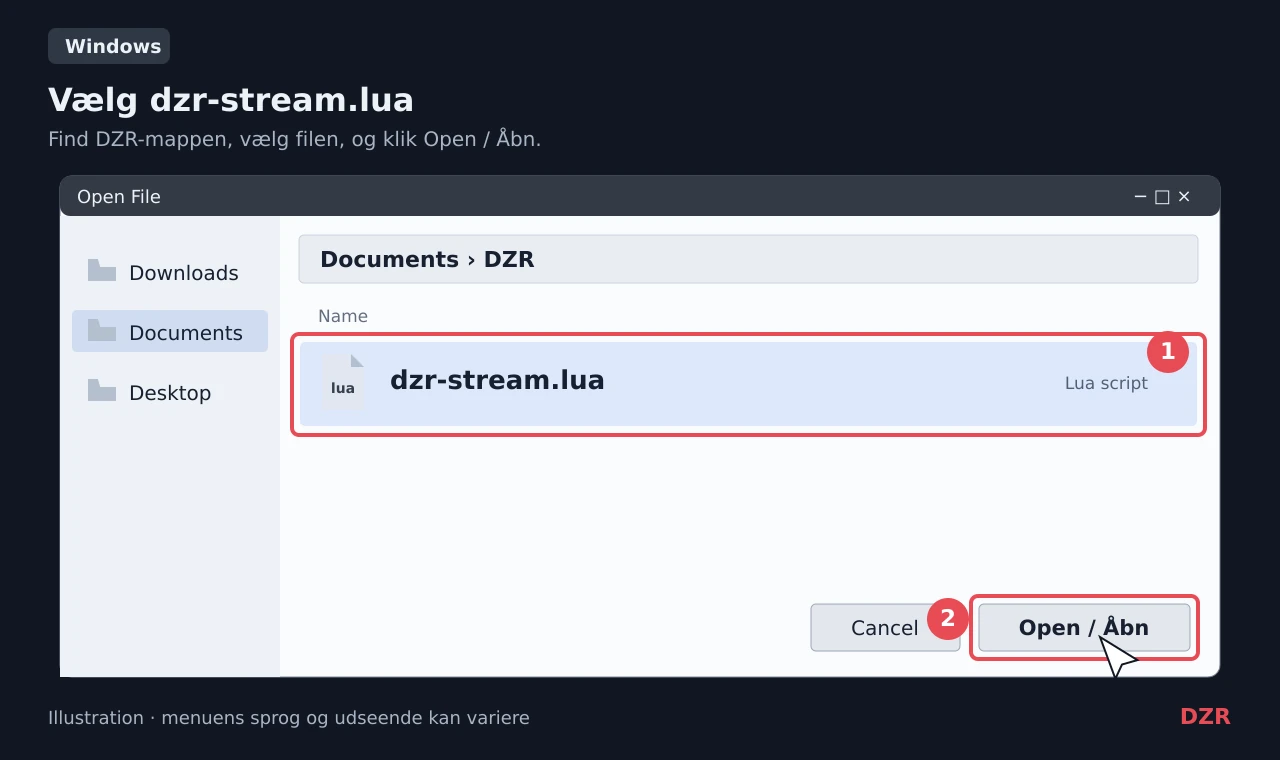
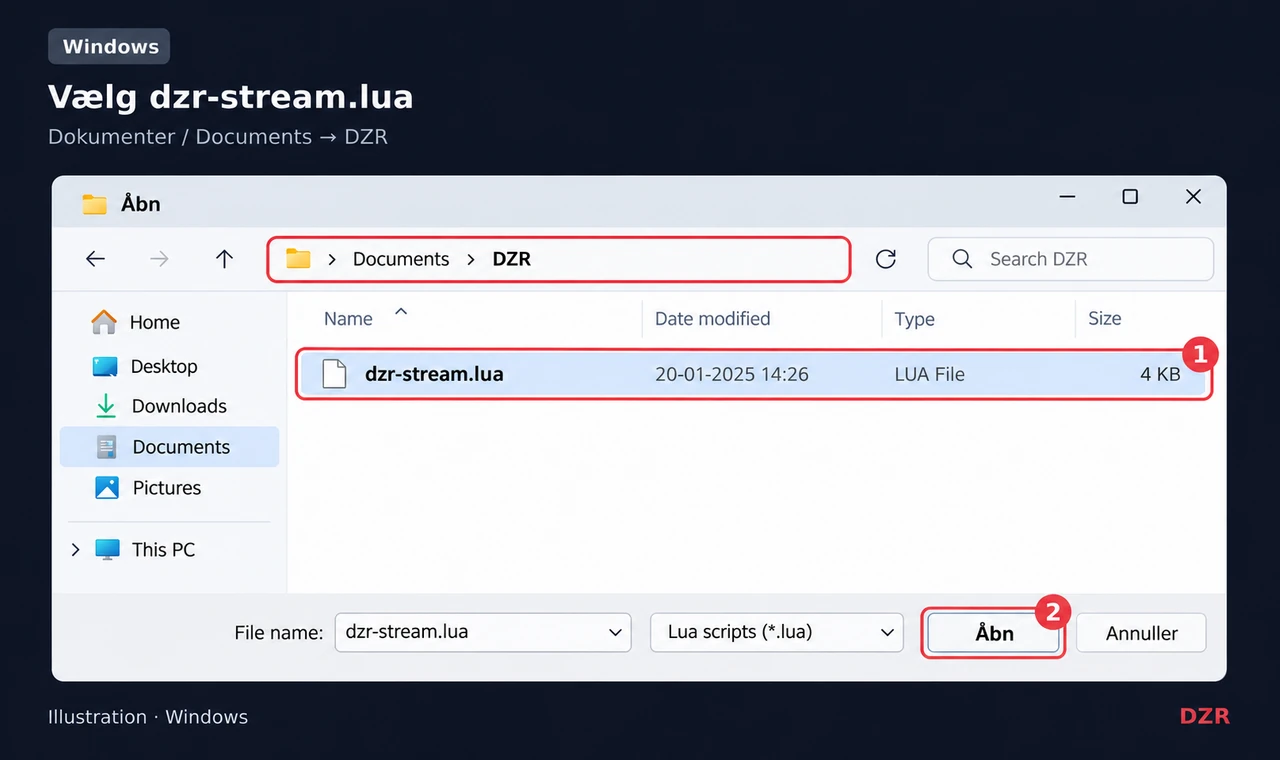
fix(streaming): simplify onboarding and refresh Windows file selection

diff --git a/apps/bot/handlers/streamingHandlers.js b/apps/bot/handlers/streamingHandlers.js
@@ -36,15 +36,14 @@ function createStreamingHandlers({ service, guildId, adminRoleId, publicUrl, cha
 
   async function showGuide(interaction, registration, token) {
     const url = guideUrl();
-    const channels = Object.entries(registration.channels).map(([platform, channel]) => `${platform === "youtube" ? "YouTube" : "Twitch"}: ${channel.url}`).join("\n");
+    const channels = Object.entries(registration.channels).map(([platform, channel]) => `Din ${platform === "youtube" ? "YouTube" : "Twitch"} kanal: ${channel.url}`).join("\n");
     await interaction.editReply({ content: (token
-      ? "✅ **Dine kanaler er tilmeldt**\n"
-      : "✅ **Du er allerede tilmeldt**\n") + channels + "\n\n"
+      ? "✅ **Dine kanaler er tilmeldt**\n\n"
+      : "✅ **Du er allerede tilmeldt**\n\n")
       + (token ? `**Din personlige OBS-nøgle:**\n\`${token}\`\nNøglen vises kun i denne private besked. Del den ikke.\n\n`
         : "Din nøgle og dine kanaler er uændrede. Behold nøglen i OBS, hvis den allerede er indsat.\n\n")
       + `Åbn [guiden](<${url}>) på den computer, hvor du bruger OBS. Forbindelsestesten er valgfri.\n\n`
-      + "**Mistet nøglen?** Se din tidligere private Discord-besked. Du kan få en ny med /streaming_add, "
-      + "men når du gemmer dér, bliver den gamle nøgle ugyldig, og du skal opdatere OBS.",
+      + channels,
     components: [row(new ButtonBuilder().setLabel("Åbn installationsguiden").setEmoji("🔴").setStyle(ButtonStyle.Link).setURL(url),
       button("status", interaction.user.id, "Kontrollér OBS-forbindelse", ButtonStyle.Secondary))],
     allowedMentions: { parse: [] } });

diff --git a/apps/bot/services/streaming/handlers.test.js b/apps/bot/services/streaming/handlers.test.js
@@ -65,6 +65,7 @@ test("new enrollment returns a key privately and a generic configured guide link
   const result = reply(i);
   assert.match(result.content, /one-time-personal-key/);
   assert.match(result.content, /valgfri/);
+  assert.ok(result.content.endsWith(`Din YouTube kanal: ${registration.channels.youtube.url}`));
   assert.equal(result.components[0].components[0].url, setupUrl);
   assert.equal(result.components[0].components[0].custom_id, undefined);
   assert.equal(result.components[0].components[1].custom_id, `streaming:status:${userId}`);
@@ -84,7 +85,7 @@ test("existing registration and stale new components only show the guide without
     assert.equal(i.calls[0][1].flags, MessageFlags.Ephemeral);
     assert.match(result.content, /allerede tilmeldt/);
     assert.match(result.content, /nøgle og dine kanaler er uændrede/);
-    assert.match(result.content, /gamle nøgle ugyldig/);
+    assert.ok(result.content.endsWith(`Din YouTube kanal: ${registration.channels.youtube.url}`));
     assert.ok(!JSON.stringify(result).includes(registration.tokenHash));
     const url = new URL(result.components[0].components[0].url);
     assert.equal(url.pathname, "/streaming/setup");

diff --git a/public/streaming/setup/README.md b/public/streaming/setup/README.md
@@ -22,9 +22,9 @@ Each operating-system directory contains:
 | `select-file.webp` | Selecting `dzr-stream.lua` and clicking Open |
 | `configure.webp` | The real DZR property names; example key shown only as masking dots |
 
-All served assets are 1280 × 760 pixels with a landscape aspect ratio and DZR's dark background/red action accent. The Windows `save-file` illustration and both `configure` illustrations were regenerated with image generation on 2026-11-14. Their lossless PNG originals are stored in `sources/`; the older, superseded SVGs were removed. The remaining seven illustrations retain their SVG originals and DejaVu Sans text. No third-party screenshot pixels are distributed.
+All served assets are 1280 × 760 pixels with a landscape aspect ratio and DZR's dark background/red action accent. The Windows `save-file` illustration and both `configure` illustrations were regenerated with image generation on 2026-11-14. The Windows `select-file` illustration was regenerated on 2026-11-15 using the `save-file` image as its visual reference. Their lossless PNG originals are stored in `sources/`; the older, superseded SVGs were removed. The remaining six illustrations retain their SVG originals and DejaVu Sans text. No third-party screenshot pixels are distributed.
 
-The Windows file-placement image shows a normal File Explorer window at `Documents → DZR`, a selected `dzr-stream.lua`, and no expanded menu. Both configuration images show only the masked key, optional YouTube link and connection-test button. These generated illustrations support the guide; they do not document an actual Windows/macOS installation or connection test.
+The Windows file-placement image shows a normal File Explorer window at `Documents → DZR`, a selected `dzr-stream.lua`, and no expanded menu. The matching file-selection image shows the same folder and file in a Windows-style Open dialog, with the filename field, Lua file filter and highlighted **Åbn** button. Both configuration images show only the masked key, optional YouTube link and connection-test button. These generated illustrations support the guide; they do not document an actual Windows/macOS installation or connection test.
 
 To regenerate a WebP after editing its SVG, use the root project's existing `sharp` dependency (no new package):
 
@@ -32,7 +32,7 @@ To regenerate a WebP after editing its SVG, use the root project's existing `sha
 node -e 'const sharp = require("sharp"); sharp("public/streaming/setup/sources/windows-add-script.svg").webp({ quality: 90, effort: 6 }).toFile("public/streaming/setup/windows/add-script.webp")'
 ```
 
-The same filename pattern applies to the other SVG-based illustrations. For the three PNG originals, resize during WebP encoding:
+The same filename pattern applies to the other SVG-based illustrations. For the four PNG originals, resize during WebP encoding:
 
 ```sh
 node -e 'const sharp = require("sharp"); sharp("public/streaming/setup/sources/windows-save-file.png").resize(1280, 760).webp({ quality: 90, effort: 6 }).toFile("public/streaming/setup/windows/save-file.webp")'
